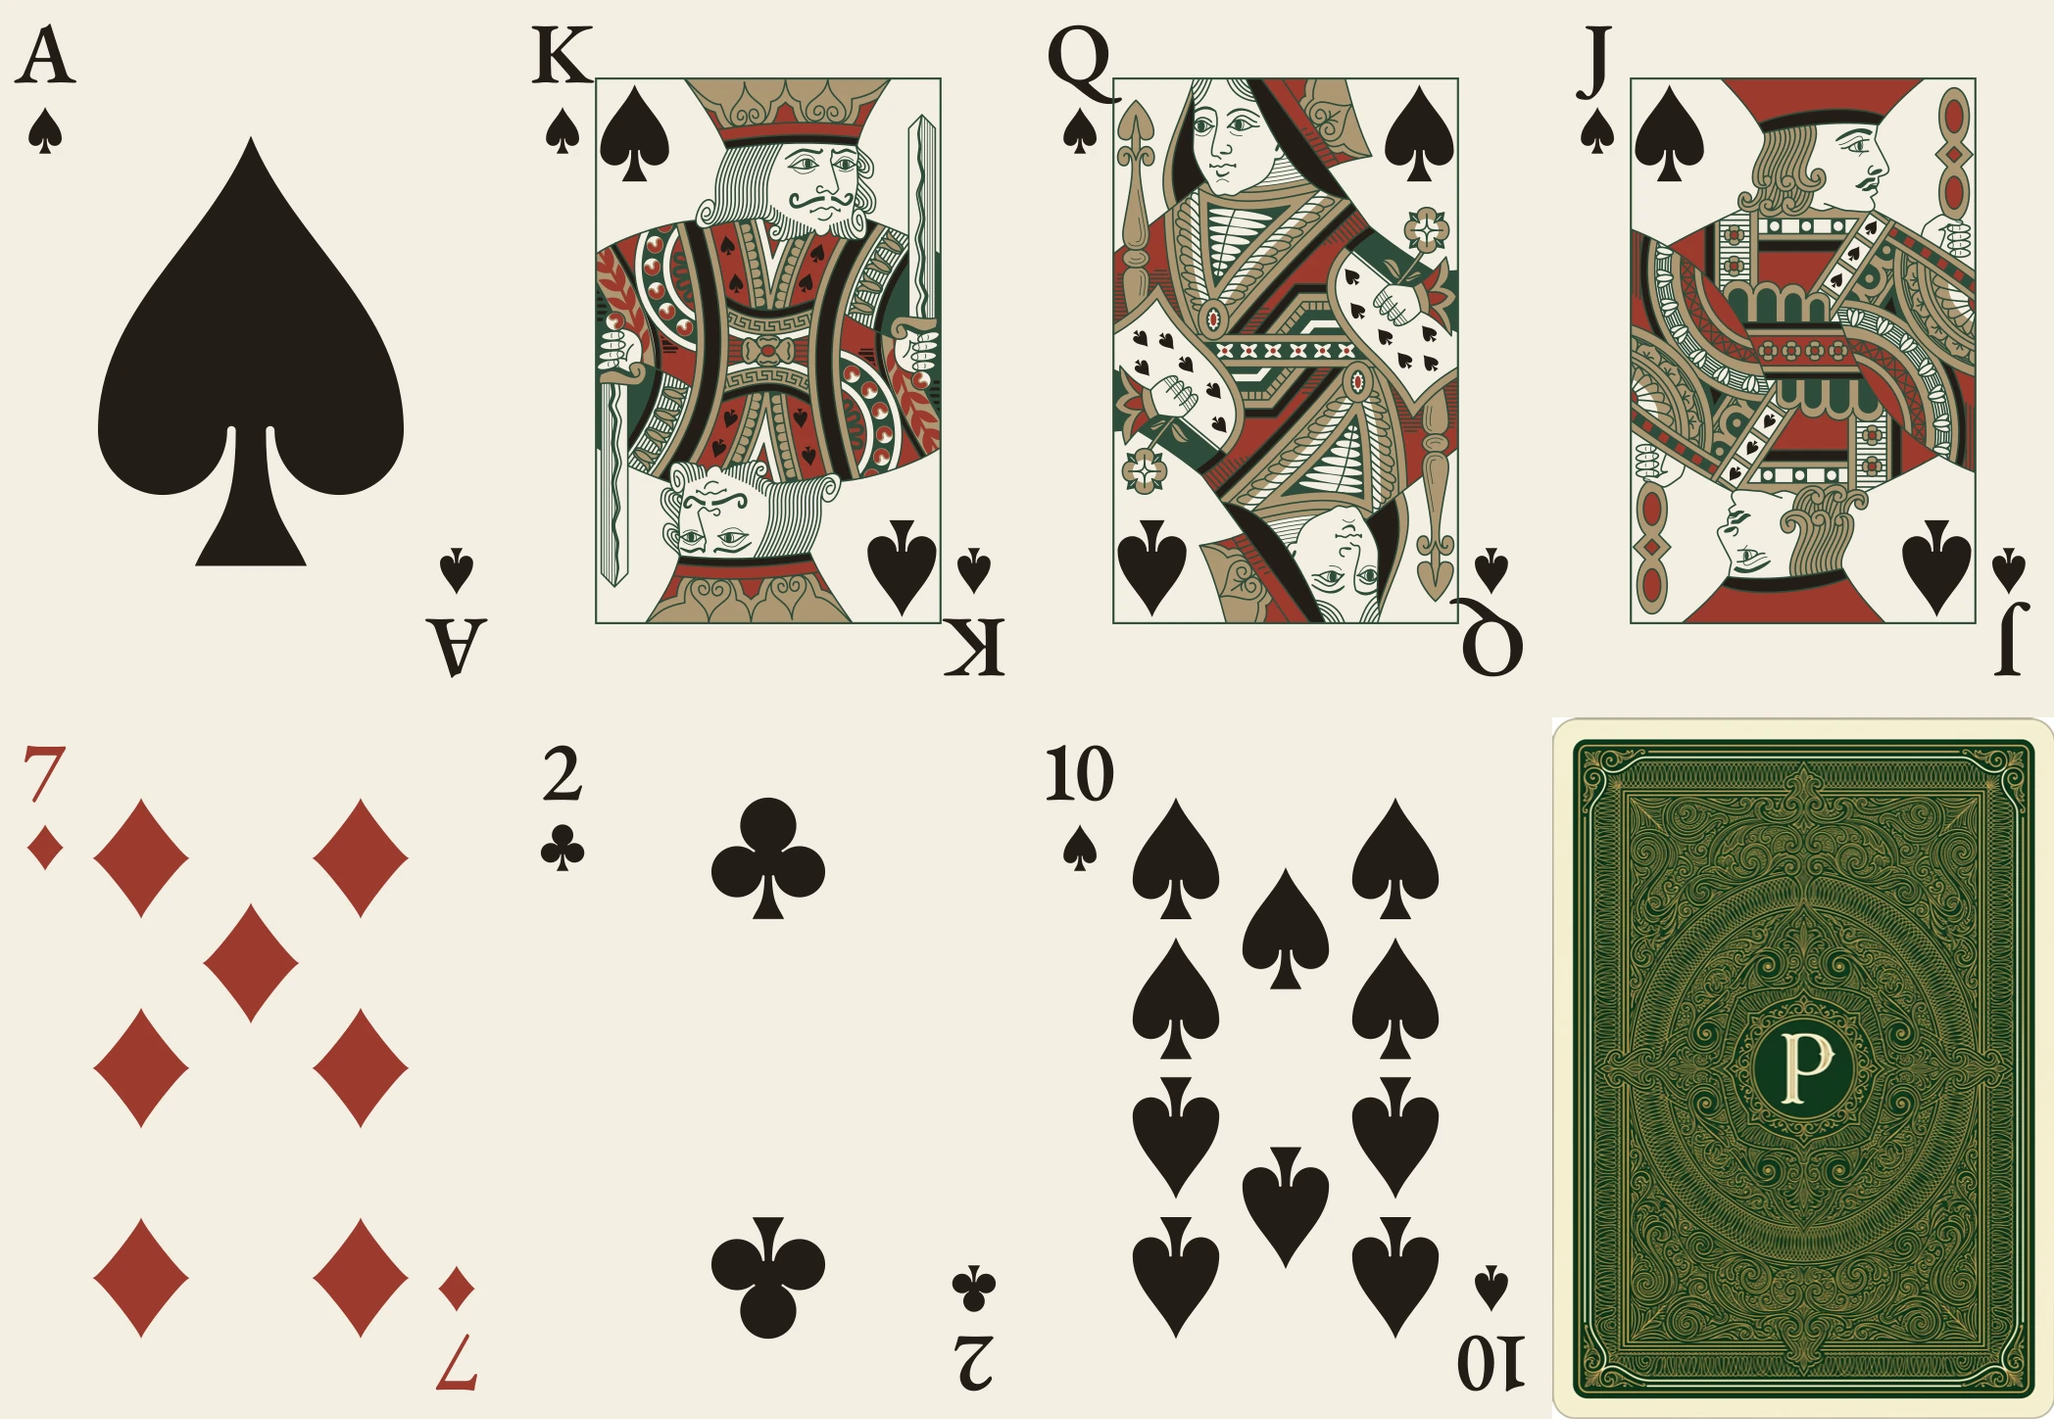
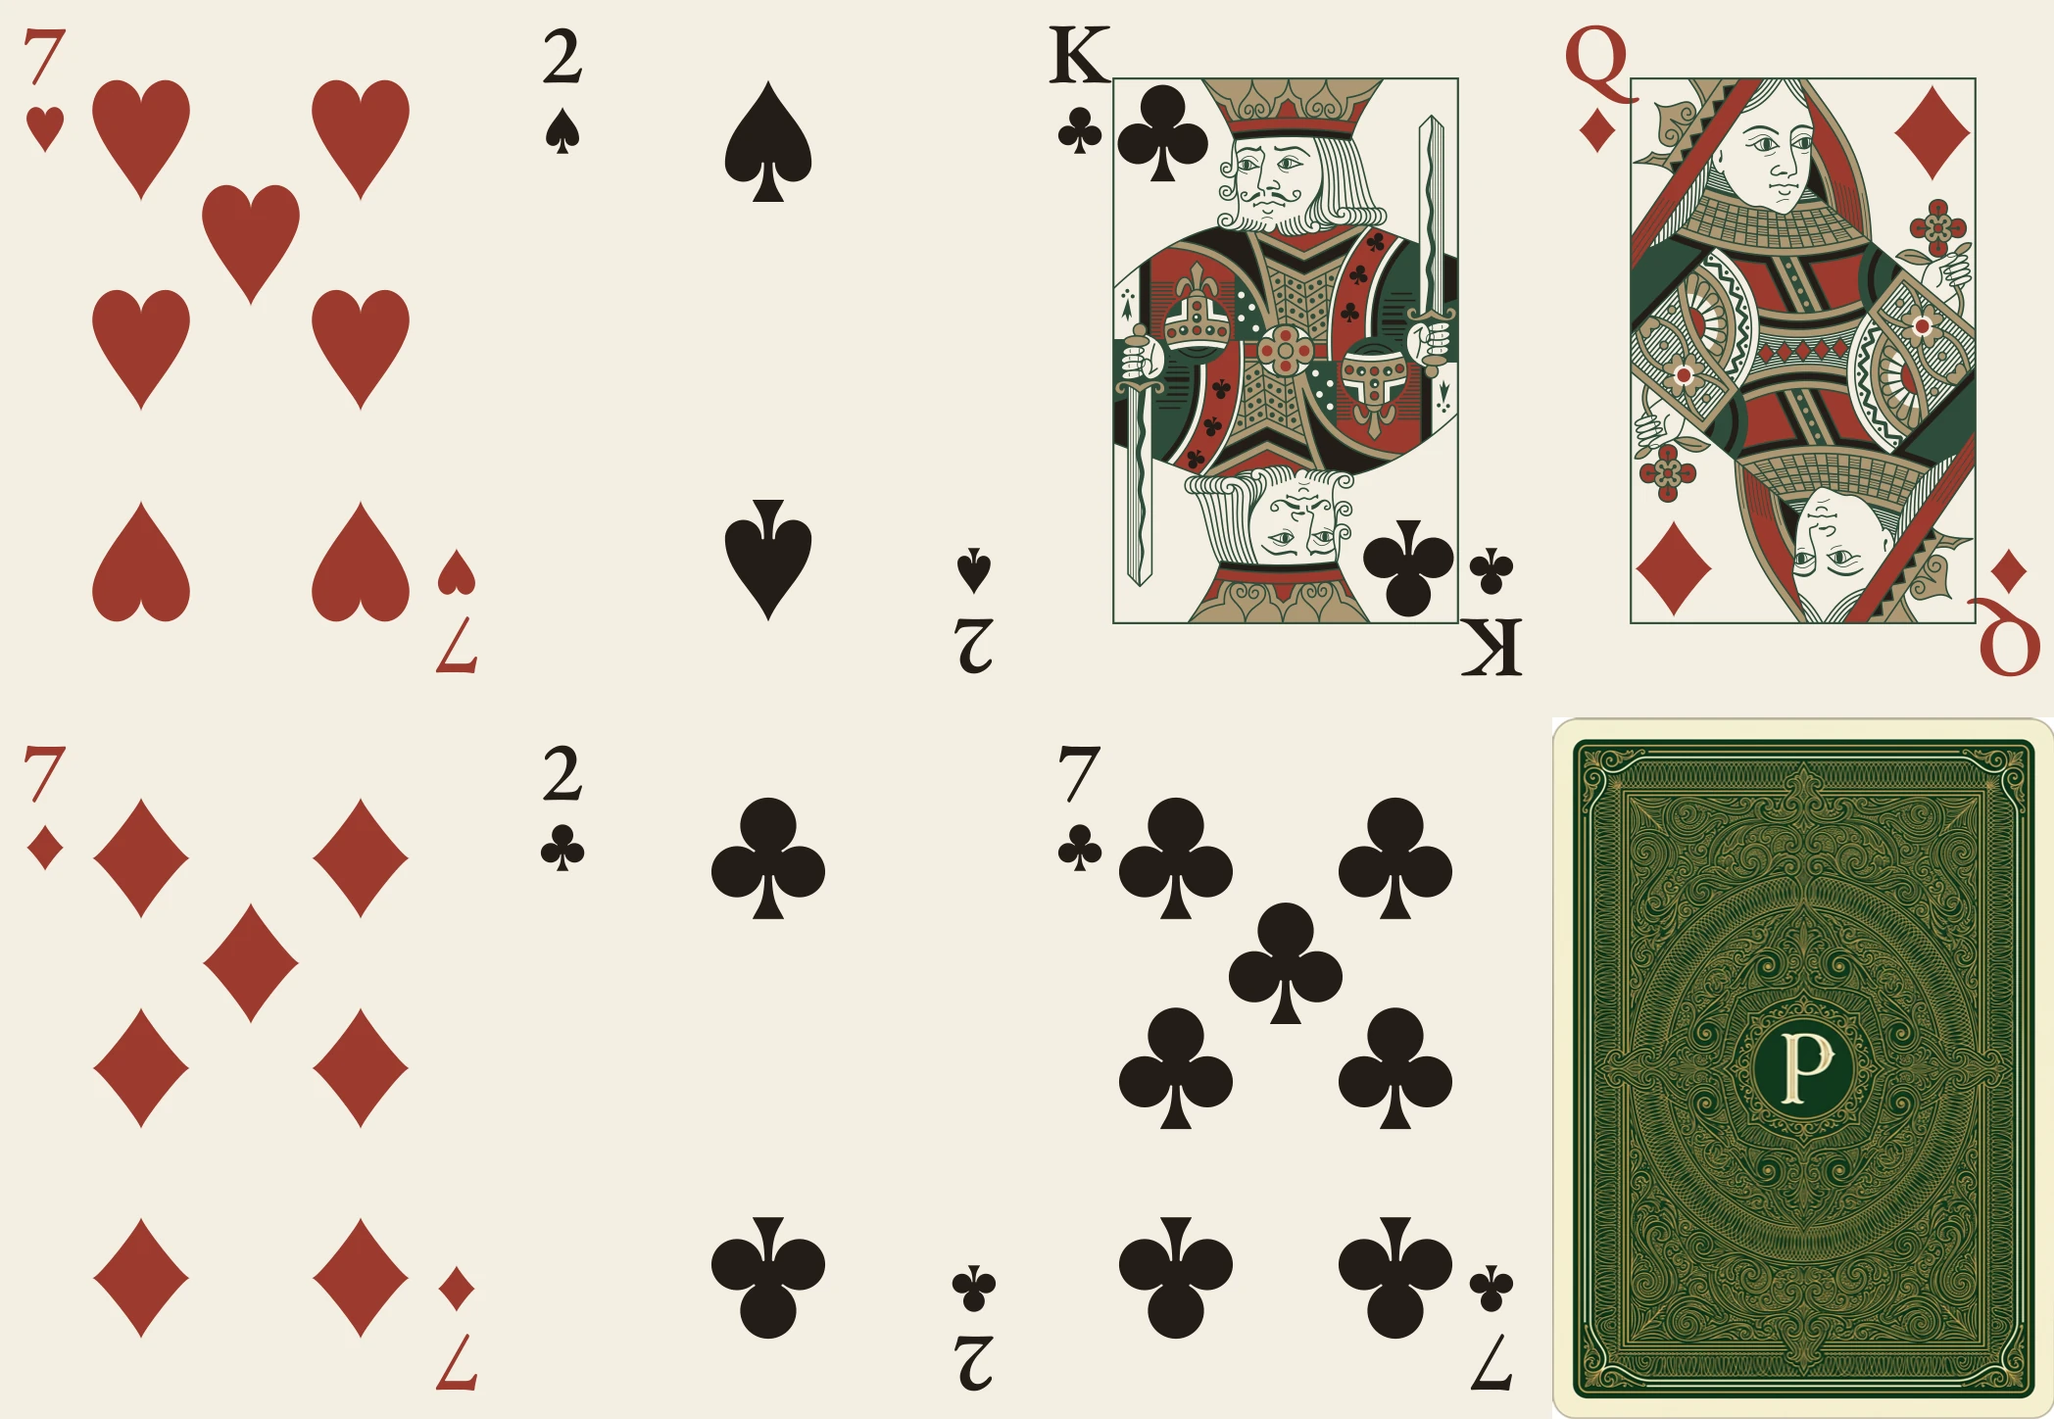
Deal seven-deuce offsuit and a board that fills it up
The hole cards are now 7♥ 2♠, the worst starting hand in hold'em. The
board tells the comeback: K♣ Q♦ 7♦ pairs the seven, the 2♣ turn makes two
pair, and the 7♣ river, which is this site, fills it up to sevens full of
twos. Against one random hand that runs 34.6%, 59.4%, 87.6% and 98.7%.

preflop.json is recomputed for 72o (2,097,572,400 matchups, 34.584%), and
the card atlas holds the new faces. The equity tests now follow the new
hand: its outs on each street, and a river that loses only to twelve of the
990 hands left and splits with two. The poker README's street-by-street
table and the lines that leaned on ace-king follow it too.

diff --git a/tests/poker/equity.test.ts b/tests/poker/equity.test.ts
@@ -8,10 +8,10 @@ import type { EquityRequest, EquityResponse } from '../../src/workers/equity.wor
 import { draw, mulberry32 } from './random';
 
 // Param's hand from content.md, dealt street by street.
-const hole = ['As', 'Ks'];
-const flop = ['Qs', 'Js', '7d'];
+const hole = ['7h', '2s'];
+const flop = ['Kc', 'Qd', '7d'];
 const turn = [...flop, '2c'];
-const river = [...turn, 'Ts'];
+const river = [...turn, '7c'];
 
 /**
  * Equity by sampling runouts, against a random hand or a known one, with its interval: the
@@ -127,24 +127,18 @@ test('heads-up counts every runout: 1,712,304 preflop, 990 on the flop, 44 on th
 
 test("lists Param's flop outs by what they make, strongest first", () => {
   const { outs = [] } = computeEquity(hole, flop);
-  expect(outs.map((group) => group.makes)).toEqual([
-    'Royal flush',
-    'Flush, ace high',
-    'Straight, ace high',
-    'Pair of aces',
-    'Pair of kings',
-  ]);
-  expect(outs[0].text).toBe('T♠ makes a royal flush');
-  expect(outs[2].text).toBe('T♥, T♦ and T♣ make a straight, ace high');
-  expect(outs.flatMap((group) => group.cards)).toHaveLength(18);
-  // A queen or a seven only pairs the board, and everyone has that pair.
+  expect(outs.map((group) => group.makes)).toEqual(['Three of a kind, sevens', 'Two pair, sevens and twos']);
+  expect(outs[0].text).toBe('7♠ and 7♣ make three of a kind, sevens');
+  expect(outs[1].text).toBe('2♥, 2♦ and 2♣ make two pair, sevens and twos');
+  // A king or a queen only pairs the board, and everyone has that pair.
+  expect(outs.flatMap((group) => group.cards)).toHaveLength(5);
+  expect(outs.flatMap((group) => group.cards)).not.toContain('Kh');
   expect(outs.flatMap((group) => group.cards)).not.toContain('Qh');
-  expect(outs.flatMap((group) => group.cards)).not.toContain('7h');
 });
 
 test('a card that improves every hand the same way is not an out', () => {
-  // With aces already paired, a seven gives two pair to every hand holding a pair.
-  const { outs = [] } = computeEquity(hole, ['Ad', '7c', '2h']);
+  // Ace-king with aces already paired: a seven gives two pair to every hand holding a pair.
+  const { outs = [] } = computeEquity(['As', 'Ks'], ['Ad', '7c', '2h']);
   expect(outs.map((group) => group.text)).toContain('A♥ and A♣ make three of a kind, aces');
   expect(outs.map((group) => group.text)).toContain('K♥, K♦ and K♣ make two pair, aces and kings');
   expect(outs.flatMap((group) => group.cards)).not.toContain('7h');
@@ -152,21 +146,29 @@ test('a card that improves every hand the same way is not an out', () => {
 
 test('outs appear on the flop and turn only', () => {
   expect(computeEquity(hole, []).outs).toBeUndefined();
-  expect(computeEquity(hole, turn).outs?.[0].text).toBe('T♠ makes a royal flush');
+  expect(computeEquity(hole, turn).outs?.map((group) => group.text)).toEqual([
+    '7♠ and 7♣ make a full house, sevens full of twos',
+    '2♥ and 2♦ make a full house, twos full of sevens',
+  ]);
   expect(computeEquity(hole, river).outs).toBeUndefined();
 });
 
-test("Param's river is a royal flush that wins all 990 matchups", () => {
+test("Param's river fills him up, and only bigger full houses beat him", () => {
   const result = computeEquity(hole, river);
-  expect(result.madeHand).toBe('Royal flush');
-  expect(result.win).toBe(1);
+  expect(result.madeHand).toBe('Full house, sevens full of twos');
+  // Of the 990 hands left, he loses to pocket kings or queens (three each) and to the last seven
+  // with a king or a queen (three each), and splits with the last seven and a two (two).
+  expect(result.loss * 990).toBeCloseTo(12, 9);
+  expect(result.tie * 990).toBeCloseTo(2, 9);
+  expect(result.win * 990).toBeCloseTo(976, 9);
 });
 
 test('rejects cards dealt twice, boards of the wrong size and hands preflop.json does not hold', () => {
   expect(() => computeEquity(['As', 'As'], [])).toThrow('As is dealt twice');
   expect(() => computeEquity(hole, ['Qs', 'Js'])).toThrow('0, 3, 4 or 5 cards');
-  expect(() => computeHeadsUp(hole, ['Ks', 'Qd'], [])).toThrow('Ks is dealt twice');
-  expect(() => computeEquity(['7c', '2d'], [])).toThrow(PREFLOP_COMMAND);
+  expect(() => computeHeadsUp(hole, ['7h', 'Qd'], [])).toThrow('7h is dealt twice');
+  // preflop.json holds seven-deuce offsuit only, so ace-king suited isn't in it.
+  expect(() => computeEquity(['As', 'Ks'], [])).toThrow(PREFLOP_COMMAND);
 });
 
 test('the worker drops a job when a newer one arrives', async () => {

diff --git a/src/lib/poker/README.md b/src/lib/poker/README.md
@@ -130,7 +130,7 @@ Against one known hand, `computeHeadsUp` enumerates only the board: 1,712,304 bo
 
 ## Preflop, computed once
 
-2,097,572,400 matchups would take about 28 seconds on one core of this laptop, and longer on a phone, so `make-preflop.ts` runs them once with a worker thread on every core. It slices the boards by their first two cards into 1,081 pieces, hands a piece to each thread as it frees up and adds up the counts. On an Apple M4 Pro with 12 threads it takes 3.3 s, 636 million matchups a second. Relabelling suits changes no result, so the file is keyed by starting hand (AKs) and serves any suited ace-king. If the hole cards in content.md change to a different starting hand, a test fails and prints the command to rerun:
+2,097,572,400 matchups would take about 28 seconds on one core of this laptop, and longer on a phone, so `make-preflop.ts` runs them once with a worker thread on every core. It slices the boards by their first two cards into 1,081 pieces, hands a piece to each thread as it frees up and adds up the counts. On an Apple M4 Pro with 12 threads it takes 3.3 s, 636 million matchups a second. Relabelling suits changes no result, so the file is keyed by starting hand (72o) and serves any offsuit seven-deuce. If the hole cards in content.md change to a different starting hand, a test fails and prints the command to rerun:
 
 ```
 node src/lib/poker/make-preflop.ts
@@ -144,24 +144,21 @@ On the flop and turn the readout lists every unseen card that improves Param's h
 
 ## Param's hand, street by street
 
-A♠ K♠ against one random hand, dealt the board from content.md:
+7♥ 2♠ against one random hand, dealt the board from content.md:
 
 | Street | Board | Param holds | Win | Tie | Loss | Equity | Matchups |
 |---|---|---|---|---|---|---|---|
-| Preflop | | Ace high | 66.220% | 1.650% | 32.130% | 67.045% | 2,097,572,400 |
-| Flop | Q♠ J♠ 7♦ | Ace high | 75.810% | 0.926% | 23.264% | 76.273% | 1,070,190 |
-| Turn | Q♠ J♠ 7♦ 2♣ | Ace high | 63.338% | 0.692% | 35.971% | 63.684% | 45,540 |
-| River | Q♠ J♠ 7♦ 2♣ T♠ | Royal flush | 100% | 0% | 0% | 100% | 990 |
+| Preflop | | Seven high | 31.710% | 5.747% | 62.543% | 34.584% | 2,097,572,400 |
+| Flop | K♣ Q♦ 7♦ | Pair of sevens | 57.116% | 4.477% | 38.407% | 59.354% | 1,070,190 |
+| Turn | K♣ Q♦ 7♦ 2♣ | Two pair, sevens and twos | 86.994% | 1.212% | 11.794% | 87.600% | 45,540 |
+| River | K♣ Q♦ 7♦ 2♣ 7♣ | Full house, sevens full of twos | 98.586% | 0.202% | 1.212% | 98.687% | 990 |
 
-Preflop, ace-king suited wins about two hands in three. The flop gives Param no pair yet, but 18 cards improve him and his equity climbs to 76%:
+Preflop, seven-deuce offsuit is the worst starting hand in hold'em: it wins about one hand in three. The flop pairs the seven, and five cards improve it further, so equity climbs to 59%:
 
-- T♠ makes a royal flush
-- 9♠, 8♠, 7♠, 6♠, 5♠, 4♠, 3♠ and 2♠ make a flush, ace high
-- T♥, T♦ and T♣ make a straight, ace high
-- A♥, A♦ and A♣ make a pair of aces
-- K♥, K♦ and K♣ make a pair of kings
+- 7♠ and 7♣ make three of a kind, sevens
+- 2♥, 2♦ and 2♣ make two pair, sevens and twos
 
-The 2♣ on the turn changes nothing but uses up one of his two chances, so equity falls to 64% with the same 18 outs. The river is the T♠, a royal flush. No opponent hand can tie it, so it wins all 990 matchups.
+A king or a queen isn't an out: it pairs the board, and everyone gets that pair. The 2♣ on the turn makes two pair and lifts equity to 88%, with four cards left that fill it up: 7♠ and 7♣ for sevens full, 2♥ and 2♦ for twos full. The river is the 7♣, sevens full of twos. Of the 990 hands left, only twelve beat it: pocket kings or queens (three each) for a bigger full house, and the last seven with a king or a queen (three each). The last seven with a two splits (two hands).
 
 ## Benchmarks
 
@@ -214,7 +211,7 @@ The fields are ordered by importance, and inside each field a higher rank is a h
 The categories are checked strongest first and each keeps only the bits it needs, which is the best five directly. Seven cards can't make a flush together with a full house or quads, so checking in order never hides a better hand. evaluate7 matches the best of its 21 subsets on 100,000 random hands, and the benchmark reproduces the published category counts for all 133,784,560 seven-card hands.
 
 **6. How do you know the numbers are right?**
-In layers. The five-card census gives 7,462 distinct values and the textbook counts. The seven-card census matches the published table. evaluate7 agrees with a brute-force best of 21, and Monte Carlo agrees with the exact numbers. The results match published equities too: ace-king suited against a random hand is 67.04% and pocket aces 85.2%. And the tests catch breakage: deleting either half of the three-of-a-kind formula fails six or eight of the 22.
+In layers. The five-card census gives 7,462 distinct values and the textbook counts. The seven-card census matches the published table. evaluate7 agrees with a brute-force best of 21, and Monte Carlo agrees with the exact numbers. The results match published equities too: seven-deuce offsuit against a random hand is 34.58%, ace-king suited 67.04% and pocket aces 85.2%. And the tests catch breakage: deleting either half of the three-of-a-kind formula fails six or eight of the 22.
 
 **7. Why precompute preflop but enumerate the flop live?**
 Preflop against a random hand is 2,097,572,400 matchups: about 28 seconds on one laptop core, 3.3 s on all 12. The flop is 1,070,190, which takes 14 ms. The preflop answer only changes when the hole cards do, so it's computed once and keyed by starting hand, and a test keeps it from going stale.
@@ -223,7 +220,7 @@ Preflop against a random hand is 2,097,572,400 matchups: about 28 seconds on one
 The enumeration is a generator that yields after each slice of runouts, 46 slices on the flop. After each slice the worker pauses through a MessageChannel, which lets any newer message run first, then checks whether its job is still the latest and stops if it isn't. setTimeout(0) would be clamped to 4 ms after a few nested calls, and terminating the worker would throw away its warmed-up JIT. The page also ignores any answer whose id isn't the latest.
 
 **9. What counts as an out?**
-A card that lifts Param's hand by more categories than it lifts the board alone. On Q♠ J♠ 7♦ the Q♥ gives Param a pair of queens but gives everyone that pair, so it isn't an out. With A♠ K♠ on A♦ 7♣ 2♥, a seven gives two pair to every hand with a pair, so it isn't one either. The rule only looks at categories, so a better kicker or a higher straight isn't listed.
+A card that lifts Param's hand by more categories than it lifts the board alone. On K♣ Q♦ 7♦ the K♥ gives Param two pair, kings and sevens, but it pairs the board, so everyone climbs the same one category and it isn't an out. With A♠ K♠ on A♦ 7♣ 2♥, a seven gives two pair to every hand with a pair, so it isn't one either. The rule only looks at categories, so a better kicker or a higher straight isn't listed.
 
 **10. How would you make it faster?**
-With A♠ K♠ the other three suits are interchangeable, so most runouts and opponent hands come in groups of up to six that share one answer, and suit isomorphism could skip all but one of each. The inner loop could also update the board's rank masks for the opponent's two cards instead of rebuilding them. A seven-card lookup table like the Two Plus Two evaluator is faster still, but it's about 130 MB, far too big to ship to a browser. One idea that didn't work: counting two suits per 32-bit word in one popcount pass ran 9% slower in V8, so the plain version stayed.
+With 7♥ 2♠ the two suits Param doesn't hold are interchangeable, so many runouts and opponent hands come in pairs that share one answer, and suit isomorphism could skip one of each. A suited hand like A♠ K♠ leaves three interchangeable suits and groups of up to six. The inner loop could also update the board's rank masks for the opponent's two cards instead of rebuilding them. A seven-card lookup table like the Two Plus Two evaluator is faster still, but it's about 130 MB, far too big to ship to a browser. One idea that didn't work: counting two suits per 32-bit word in one popcount pass ran 9% slower in V8, so the plain version stayed.

diff --git a/content.md b/content.md
@@ -21,7 +21,7 @@ The single source of every word on the site. Replace each TODO, delete any line 
   - Graduating: May 2027
 
 ## hand
-- hole: As Ks
+- hole: 7h 2s
 
 ## experience
 Suits: spades for quant and trading, hearts for product and full-stack, diamonds for data and research, clubs for infrastructure.
@@ -97,9 +97,9 @@ Suits: spades for quant and trading, hearts for product and full-stack, diamonds
 - suit: clubs
 
 ## board
-Exactly five projects: three on the flop, one on the turn and one on the river. Your two hole cards plus these five must all be different. The suggested cards tell a story: your ace-king of spades flops a royal flush draw, misses on the turn and completes the royal flush on the river, which is this site. Change any of them if you'd rather.
+Exactly five projects: three on the flop, one on the turn and one on the river. Your two hole cards plus these five must all be different. The suggested cards tell a story: your seven-deuce offsuit, the worst starting hand in poker, pairs its seven on the flop, makes two pair on the turn and fills up on the river, which is this site. Change any of them if you'd rather.
 
-### flop: Qs
+### flop: Kc
 - name: Kalshi and Polymarket arbitrage engine
 - pitch: A cross-venue statistical arbitrage detector and trader for prediction markets.
 - metric: Metric placeholder (PLACEHOLDER: one number with its unit)
@@ -108,7 +108,7 @@ Exactly five projects: three on the flop, one on the turn and one on the river. 
   - GitHub: https://example.com/arbitrage-engine (PLACEHOLDER)
 - details: Live system stats, model and market selection and liquidity-aware sizing across both venues. (TODO: expand)
 
-### flop: Js
+### flop: Qd
 - name: Open-source trading library
 - pitch: An algorithmic trading and backtesting framework published on PyPI.
 - metric: Metric placeholder (PLACEHOLDER: for example monthly downloads or GitHub stars)
@@ -136,7 +136,7 @@ Exactly five projects: three on the flop, one on the turn and one on the river. 
   - Write-up: https://example.com/macro-signals (PLACEHOLDER)
 - details: TODO
 
-### river: Ts
+### river: 7c
 - name: This site
 - pitch: The table you're sitting at, built with Astro, React Three Fiber and GSAP. (Once phase 2 ships, add the hand evaluator and exact equity math written from scratch.)
 - metric: Metric placeholder (PLACEHOLDER: after phase 2, for example the evaluator's test count or frame time)

diff --git a/src/content/board/1-arbitrage-engine.md b/src/content/board/1-arbitrage-engine.md
@@ -1,6 +1,6 @@
 ---
 street: flop
-card: Qs
+card: Kc
 name: Kalshi and Polymarket arbitrage engine
 pitch: A cross-venue statistical arbitrage detector and trader for prediction markets.
 metric: Metric placeholder

diff --git a/src/content/board/2-trading-library.md b/src/content/board/2-trading-library.md
@@ -1,6 +1,6 @@
 ---
 street: flop
-card: Js
+card: Qd
 name: Open-source trading library
 pitch: An algorithmic trading and backtesting framework published on PyPI.
 metric: Metric placeholder

diff --git a/src/content/board/5-this-site.md b/src/content/board/5-this-site.md
@@ -1,6 +1,6 @@
 ---
 street: river
-card: Ts
+card: 7c
 name: This site
 pitch: The table you're sitting at, built with Astro, React Three Fiber and GSAP.
 metric: Metric placeholder
